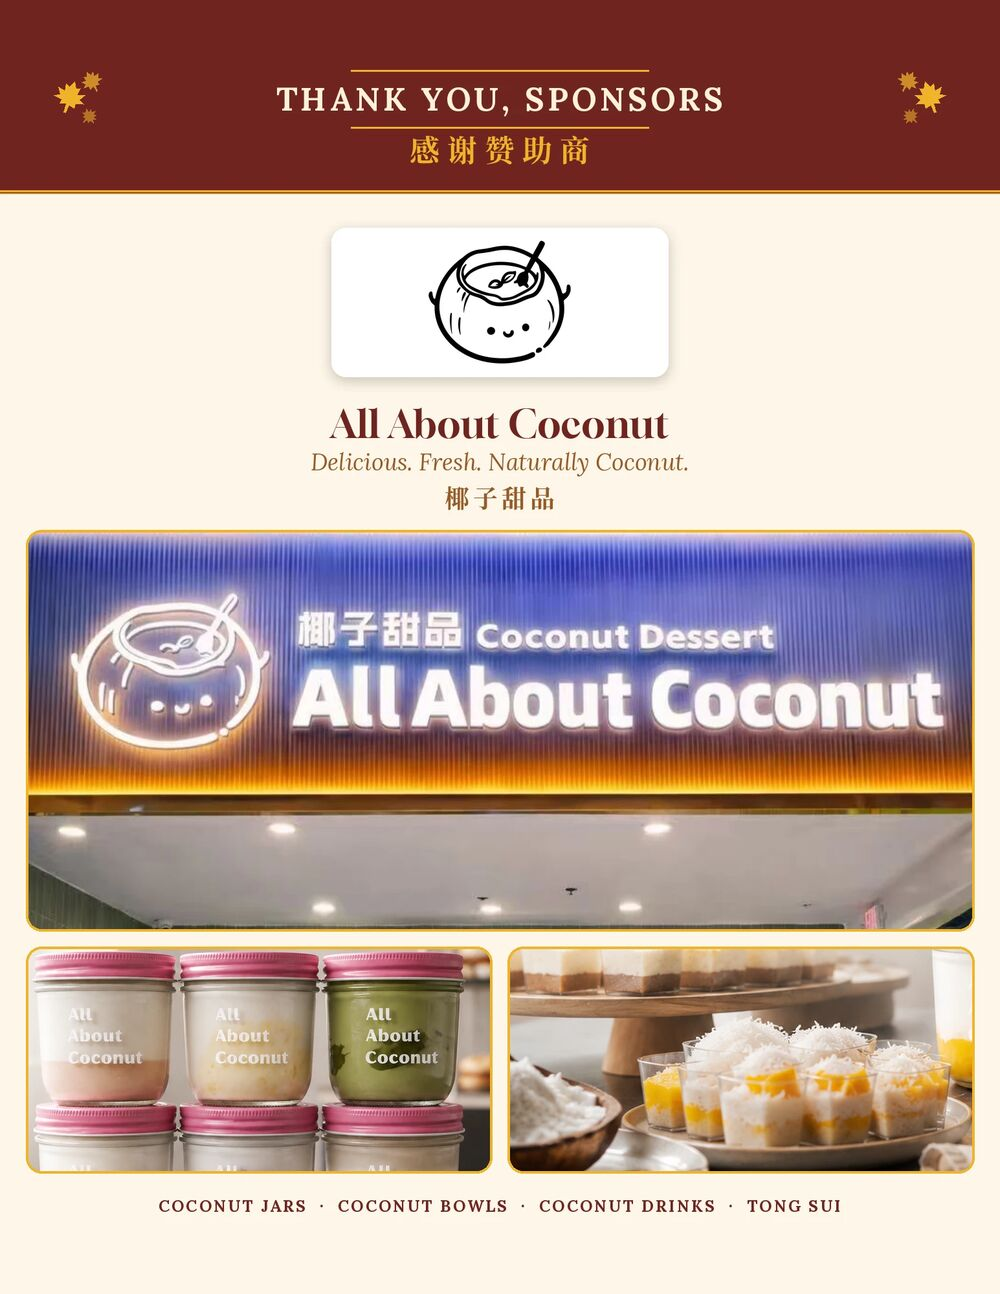
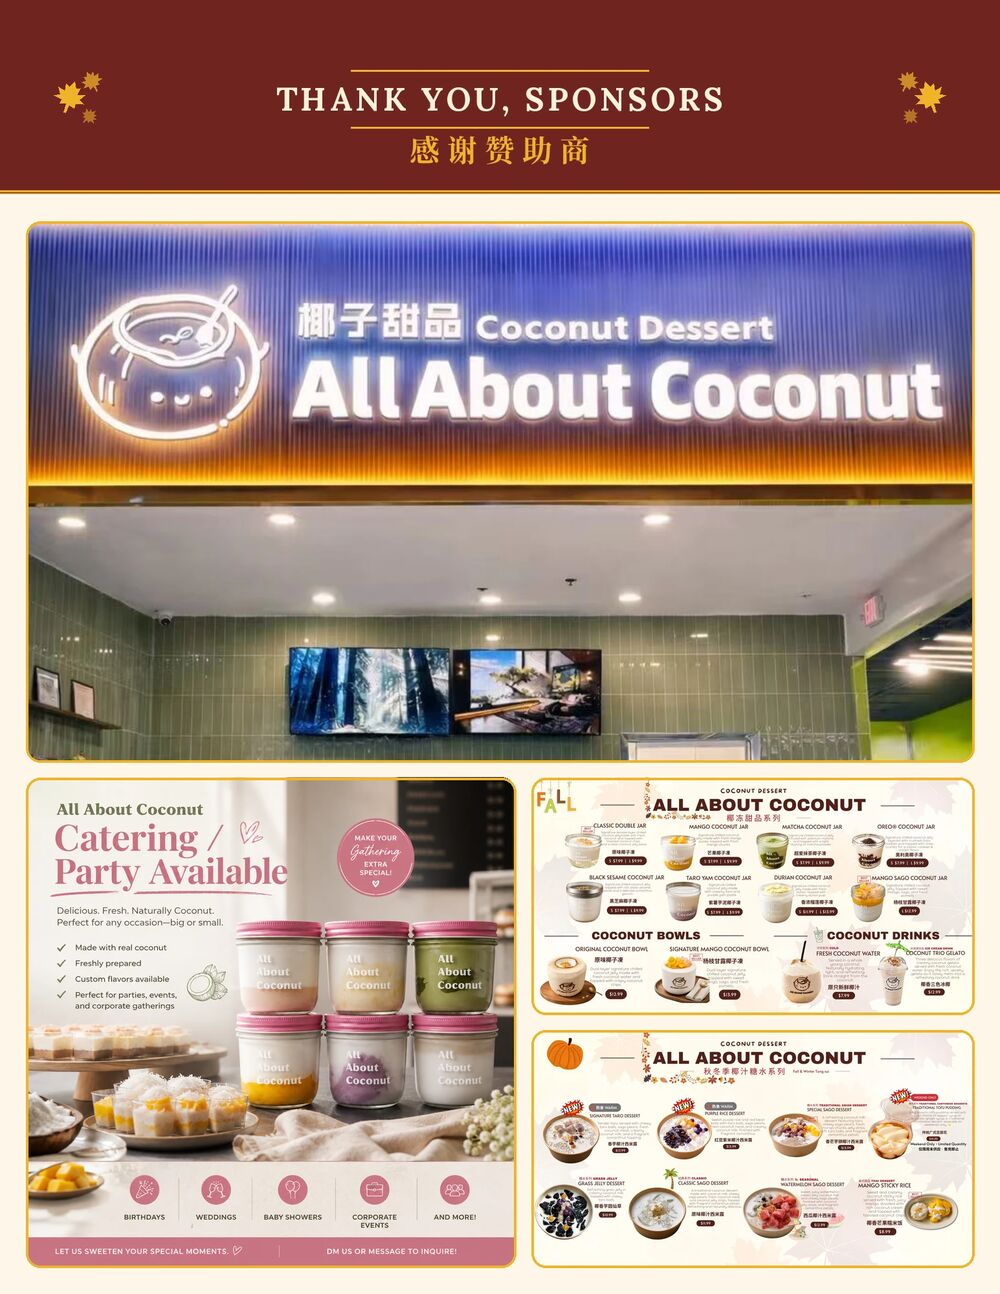
Update sponsor flyers; add PathFinder (Gold) and UNIPRO (Community Friend)
- New flyers for MyPhillyLawyer, CHUMS Poke & Skewer and All About
  Coconut replace the previous ones (alt text updated to match)
- PathFinder Education: Gold card with logo (cropped from its flyer),
  description, call link and flyer; added to the popup and logo strip
- UNIPRO 优普云锐: Community Friends logo tile, kept out of the popup

Claude-Session: https://claude.ai/code/session_01D9jhWjjtTsbyt3iA5DqwUN

diff --git a/partners.html b/partners.html
@@ -115,7 +115,7 @@
           <p data-i18n="sp.mpl">A Philadelphia personal injury law firm serving clients throughout the region.</p>
           <a class="ext" href="https://www.myphillylawyer.com/" target="_blank" rel="noopener"><span data-i18n="sp.visit">Visit website</span><svg aria-hidden="true"><use href="#i-ext"/></svg></a>
         </div>
-          <figure class="sp-poster"><a href="images/posters/myphillylawyer.jpg" target="_blank" rel="noopener"><img src="images/posters/myphillylawyer.jpg" width="1000" height="1294" loading="lazy" alt="MyPhillyLawyer sponsor poster: Philadelphia’s favorite personal injury lawyers, practice areas, free consultation, Chinese-language support available" data-i18n-attr="alt:img.posterMpl"></a></figure>
+          <figure class="sp-poster"><a href="images/posters/myphillylawyer.jpg" target="_blank" rel="noopener"><img src="images/posters/myphillylawyer.jpg" width="1000" height="1294" loading="lazy" alt="MyPhillyLawyer flyer: Philadelphia’s Favorite Personal Injury Lawyers, 2026 Philly Favorites winner. Free consultation, no fee unless we win, Chinese-language support. Car and truck accidents, work injuries, slip and fall, medical malpractice, wrongful death. Main office 215-227-2727, Chinese line 267-512-2301, myphillylawyer.com. Offices in Philadelphia and King of Prussia" data-i18n-attr="alt:img.posterMpl"></a></figure>
       </article>
       <article class="sp">
         <div class="sp-logo"><img src="images/partners/auchel-gpfs.jpg" width="600" height="431" alt="Auchel World (美國奧淇國際金融) and Grand Prospects Financial &amp; Insurance Services (美國宏盛保險與理財)"></div>
@@ -124,6 +124,15 @@
           <p data-i18n="sp.auchel">With over 30 years of experience, Auchel World / Grand Prospects Financial &amp; Insurance Services provides personalized financial and insurance planning for clients across the US. Working alongside attorneys, CPAs and other financial professionals, the firm offers access to the world’s leading financial institutions and insurance carriers, including solutions not available in local markets.</p>
         </div>
           <figure class="sp-poster"><a href="images/posters/auchel-gpfs.jpg" target="_blank" rel="noopener"><img src="images/posters/auchel-gpfs.jpg" width="1000" height="1294" loading="lazy" alt="Auchel World and Grand Prospects Financial &amp; Insurance Services sponsor poster" data-i18n-attr="alt:img.posterAuchel"></a></figure>
+      </article>
+      <article class="sp">
+        <div class="sp-logo"><img src="images/partners/pathfinder.png" width="200" height="173" alt="PathFinder Education (引路者教育咨询)"></div>
+        <div>
+          <h3>PathFinder Education</h3>
+          <p data-i18n="sp.pathfinder">PathFinder Education (引路者教育咨询) offers college admissions and academic planning, led by founder Ms. Emily, a University of Pennsylvania graduate in educational psychology and NACAC-certified college counselor with more than 10 years of public and private school counseling experience. Services include course and AP/IB planning, extracurriculars and research programs, and college application coaching, from essays and school selection to interviews.</p>
+          <a class="ext" href="tel:+12157898739" data-i18n="sp.pfCall">Call 215-789-8739</a>
+        </div>
+          <figure class="sp-poster"><a href="images/posters/pathfinder.jpg" target="_blank" rel="noopener"><img src="images/posters/pathfinder.jpg" width="1000" height="1294" loading="lazy" alt="PathFinder Education flyer: founder Ms. Emily, University of Pennsylvania master’s in educational psychology and NACAC-certified college counselor with 10+ years of experience. Services: academic planning, extracurriculars and programs, college application coaching. Phone 215-789-8739" data-i18n-attr="alt:img.posterPathfinder"></a></figure>
       </article>
       </div>
 
@@ -145,7 +154,7 @@
             <p data-i18n="sp.coconut">Fresh coconut desserts &amp; tong sui — handcrafted with real coconut, made fresh daily in Berwyn, PA.</p>
             <a class="ext" href="https://www.allaboutcoconut.com/" target="_blank" rel="noopener"><span data-i18n="sp.visit">Visit website</span><svg aria-hidden="true"><use href="#i-ext"/></svg></a>
           </div>
-          <figure class="sp-poster"><a href="images/posters/all-about-coconut.jpg" target="_blank" rel="noopener"><img src="images/posters/all-about-coconut.jpg" width="1000" height="1294" loading="lazy" alt="All About Coconut sponsor poster: Delicious. Fresh. Naturally Coconut. Coconut jars, bowls, drinks and tong sui" data-i18n-attr="alt:img.posterCoconut"></a></figure>
+          <figure class="sp-poster"><a href="images/posters/all-about-coconut.jpg" target="_blank" rel="noopener"><img src="images/posters/all-about-coconut.jpg" width="1000" height="1294" loading="lazy" alt="All About Coconut flyer: the coconut dessert shop, catering and parties for birthdays, weddings, baby showers and corporate events, and the fall coconut jar, coconut bowl, coconut drink and tong sui menus" data-i18n-attr="alt:img.posterCoconut"></a></figure>
       </article>
         <article class="sp">
           <a class="sp-logo" href="https://order.toasttab.com/online/chums-poke-bowl-skewer-254-swedesford-road-fl2-unitf2" target="_blank" rel="noopener"><img src="images/partners/chums.jpg" width="360" height="353" alt="CHUMS"></a>
@@ -154,7 +163,7 @@
             <p data-i18n="sp.chums">CHUMS Poke &amp; Skewer at 254 Swedesford Rd in Berwyn brings together fresh, customizable poke bowls and authentic Chinese-style grilled skewers, from lamb and steak to squid, along with favorites like takoyaki and sushi. Dopamine in every mouthful!</p>
             <a class="ext" href="https://order.toasttab.com/online/chums-poke-bowl-skewer-254-swedesford-road-fl2-unitf2" target="_blank" rel="noopener"><span data-i18n="sp.order">Order online</span><svg aria-hidden="true"><use href="#i-ext"/></svg></a>
           </div>
-          <figure class="sp-poster"><a href="images/posters/chums.jpg" target="_blank" rel="noopener"><img src="images/posters/chums.jpg" width="1000" height="1294" loading="lazy" alt="CHUMS Poke &amp; Skewer sponsor poster: Dopamine in Every Mouthful. Poke bowls, skewers and sushi rolls" data-i18n-attr="alt:img.posterChums"></a></figure>
+          <figure class="sp-poster"><a href="images/posters/chums.jpg" target="_blank" rel="noopener"><img src="images/posters/chums.jpg" width="1000" height="1294" loading="lazy" alt="CHUMS Poke &amp; Skewer flyer: Dopamine in every mouthful. Poke bowls, sushi rolls, and a skewer menu with steak, lamb, chicken wings, pork belly, squid, shrimp, sausage and vegetable skewers" data-i18n-attr="alt:img.posterChums"></a></figure>
         </article>
         <article class="sp">
           <a class="sp-logo" href="https://www.kabukipa.com/" target="_blank" rel="noopener"><img src="images/partners/kabuki.png" width="420" height="112" alt="Kabuki Japanese Steakhouse"></a>
@@ -180,6 +189,7 @@
         <h2 class="tier-h" data-i18n="tier.friends">Community Friends</h2>
         <div class="logo-grid sm">
           <a class="logo-tile" href="https://www.aplusdentalservices.com/" target="_blank" rel="noopener" title="A Plus Dental Care"><img src="images/partners/aplus-dental.jpg" width="420" height="374" alt="A Plus Dental Care"></a>
+          <div class="logo-tile" title="UNIPRO 优普云锐"><img src="images/partners/unipro.png" width="478" height="134" alt="UNIPRO (优普云锐)"></div>
         </div>
       </div>
 

diff --git a/js/i18n.js b/js/i18n.js
@@ -124,13 +124,16 @@ window.VOA_ZH = {
   'img.posterMain': '《秋之声》海报：CAPA-TE 呈献免费社区音乐会，10月10日（星期六）下午 2:00–5:00，威尔逊农场公园，费城老炮男声合唱团演出，附活动信息和捐款二维码以及赞助商标志',
   'img.posterTransglobal': '美国泛宇集团赞助海报：一站式财富管理权威。退休规划讲座「从资产配置到现金流配置，退休规划关键转折」，2026年10月24日（星期六）上午10:00（美东时间），费城办公室（640 Freedom Business Center Dr., STE 100, King of Prussia），主讲人 Eason Yang（EA，助理区域副总裁）。保险、退休、财富管理、税务、房地产、贷款。电话 626-447-7888 转 2154',
   'img.posterAsianPlate': 'Asian Plate 赞助海报：饺子与包子。感谢您支持本地商家！刈包、韩式烤肉饭、新鲜饺子、小笼包、肉夹馍和生煎包',
-  'img.posterChums': 'CHUMS Poke & Skewer 赞助海报：每一口都是快乐。波奇饭、烤串和寿司卷',
+  'img.posterChums': 'CHUMS Poke & Skewer 传单：每一口都是快乐。波奇饭、寿司卷，以及牛肉、羊肉、鸡翅、五花肉、鱿鱼、虾、香肠和各式蔬菜烤串菜单',
   'img.posterTtgop': 'Tredyffrin Republicans 赞助海报：您身边的邻居，服务 Tredyffrin 社区。详情请访问 ttgop.org',
-  'img.posterMpl': 'MyPhillyLawyer 赞助海报：费城喜爱的人身伤害律师，业务范围，免费咨询，提供中文沟通支持',
+  'img.posterMpl': 'MyPhillyLawyer 传单：费城喜爱的人身伤害律师，2026 年费城最爱奖得主。免费咨询，不赢不收费，提供中文沟通支持。车辆事故、卡车事故、工伤赔偿、滑倒摔伤、医疗事故、过失致死。总机 215-227-2727，中文服务 267-512-2301，myphillylawyer.com，费城和 King of Prussia 设有办公室',
   'img.posterAuchel': '美国奥淇国际金融与美国宏盛保险与理财赞助海报',
-  'img.posterCoconut': 'All About Coconut 赞助海报：椰子甜品，椰子罐、椰子碗、椰子饮品和糖水',
+  'img.posterCoconut': 'All About Coconut 传单：椰子甜品店，承接生日、婚礼、迎婴派对和公司活动的餐饮与派对订单，以及秋季椰冻甜品、椰子碗、椰子饮品和糖水菜单',
   'img.posterKabuki': 'Kabuki 日式铁板烧餐厅赞助海报：欢迎光临！铁板烧、寿司和生鱼片、主厨特色卷、照烧、天妇罗、面条和炒饭',
   'img.posterOcha': 'O-CHA 茶饮店赞助海报：新鲜冲泡，口感均衡，每一杯都令人满足。手作奶茶、水果茶、黑糖珍珠、抹茶拿铁、冰茶和冰沙',
+  'sp.pathfinder': 'PathFinder 引路者教育咨询由创始人 Ms. Emily 主理。她拥有宾夕法尼亚大学教育心理学硕士学位，是 NACAC 认证升学顾问，拥有 10 年以上公立/私立学校心理辅导与升学规划经验。服务涵盖学业规划（选课、AP/IB 与标化考试规划）、课外活动与项目（科研、社团与领导力、夏校与竞赛）以及申请辅导（文书、选校策略与面试指导）。',
+  'sp.pfCall': '致电 215-789-8739',
+  'img.posterPathfinder': 'PathFinder 引路者教育咨询传单：创始人 Ms. Emily，宾夕法尼亚大学教育心理学硕士，NACAC 认证升学顾问，10 年以上经验。核心服务：学业规划、课外活动与项目、申请辅导。电话 215-789-8739',
   'sp.kabuki': 'Kabuki 日式铁板烧餐厅提供在您面前现场烹制的铁板烧，以及新鲜的寿司、生鱼片和各式特色卷。',
   'sp.ocha': 'O-CHA 是一家现代茶饮店，位于 Berwyn 的 Hung Vuong Market 亚洲美食广场（254 Swedesford Rd 二楼）。饮品以亚洲茶文化为灵感并融入现代创意，每一杯都现点现做，选用优质茶叶、新鲜水果和精选配料——从黑糖珍珠、抹茶拿铁到水果茶和奶茶，甜度和冰量都可随心调整。',
   'sp.asianplate': 'Asian Plate 是位于 Berwyn（254 Swedesford Rd）的亚洲餐厅，在温馨舒适的环境中呈现地道的亚洲风味。招牌小笼包、生煎包、肉夹馍和香脆春卷均选用新鲜食材，按传统做法用心制作。',

diff --git a/js/main.js b/js/main.js
@@ -15,12 +15,14 @@
     { name: 'Tredyffrin Republicans', logo: 'images/partners/tredyffrin-republicans.png', w: 460, h: 454 },
     { name: 'MyPhillyLawyer', logo: 'images/partners/myphillylawyer.jpg', w: 460, h: 127 },
     { name: 'Auchel World / Grand Prospects Financial & Insurance Services', logo: 'images/partners/auchel-gpfs.jpg', w: 600, h: 431 },
+    { name: 'PathFinder Education', logo: 'images/partners/pathfinder.png', w: 200, h: 173 },
     { name: 'Asian Plate', logo: 'images/partners/asian-plate.jpg', w: 440, h: 438 },
     { name: 'All About Coconut', logo: 'images/partners/all-about-coconut.png', w: 440, h: 379 },
     { name: 'CHUMS Poke & Skewer', logo: 'images/partners/chums.jpg', w: 360, h: 353 },
     { name: 'Kabuki Japanese Steakhouse', logo: 'images/partners/kabuki.png', w: 420, h: 112 },
     { name: 'O-CHA', text: 'O-CHA' }, // no logo yet: shows the name as a text tile
-    { name: 'A Plus Dental Care', logo: 'images/partners/aplus-dental.jpg', w: 420, h: 374, popup: false }
+    { name: 'A Plus Dental Care', logo: 'images/partners/aplus-dental.jpg', w: 420, h: 374, popup: false },
+    { name: 'UNIPRO 优普云锐', logo: 'images/partners/unipro.png', w: 478, h: 134, popup: false }
   ];
 
   function storage(type) {
